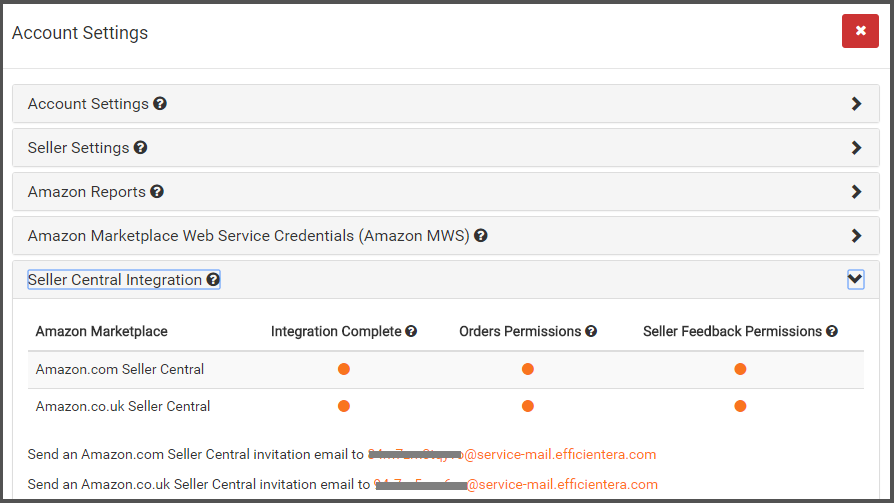
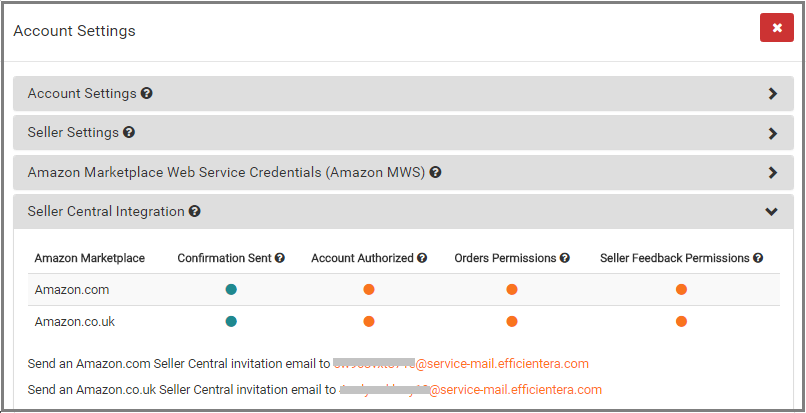
1. Tightening the messaging on our tools  2. Created placeholder page for Flywheels Book  3. Updated MWS/SC instructions with new images

diff --git a/content/templates/index.html b/content/templates/index.html
@@ -34,7 +34,7 @@
         <div class="col-sm-12 col-lg-12 text-center">
             <!--<h2>Efficient Era</h2> -->
             <h1 style="color:darkslategrey;">Power Tools for Amazon Sellers</h1>
-            <h5 style="color:slategrey;">Your One Stop Shop for: Amazon Email Automation  • Buyer Reviewer Matching  •  Review Notifications •  Seller Feedback • VAT Invoice Automation • Bulk Order Notification • Sales Charts</h5>
+            <h5 style="color:slategrey;">Your One Stop Shop for: Buyer Reviewer Matching • Amazon Email Automation • Review Notifications • Seller Feedback • VAT Invoice Automation • Bulk Order Notification • Sales Charts</h5>
             <a href = "https://app.efficientera.com/register/?" target="_blank">
                 <img class="center-block" src="images/freetrial.png" align="center">
             </a>
@@ -55,8 +55,8 @@
 
 
                             <h4>Buyer Reviewer Matching</h4>
-                            <p>Efficient Era's Buyer Reviewer matching tool accurately links reviews to orders and helps you directly contact the buyer. This can be especially helpful if they left a negative review.
-                                What's more, you can keep track of all product reviews through our automated Review Notifications. Our alerts contain direct links to the review page on Amazon as well as to the order details page.
+                            <p>A buyer leaves you a negative, one-star review. How do you contact them to find out what went wrong and if you can make any amends? Efficient Era's Buyer Reviewer matching tool accurately links verified reviews to orders and helps you directly contact buyers.
+                                Our review notification alerts contain direct links to the review page and to the order details page on Amazon.
                             </p>
 
 
@@ -95,8 +95,8 @@
                         <div class="col-xs-10 col-sm-9">
                         <h4>Seller Feedback Alerts & Automation</h4>
                             <p>
-                                With the Seller Feedback tool, you get notified as soon as a buyer leaves you feedback. You also have the ability to customize and automate e-mail responses
-                                for both positive or negative Seller Feedback. What's more, you can visually monitor your seller performance through charts and search for feedback by star rating or by marketplace.
+                                Amazon does not inform you if someone left you Seller Feedback. With this tool, you get notified right away. We identify positive and negative seller feedback and let you
+                                customize an automated email response for both cases. What's more, you can visually monitor your seller performance through charts and search for feedback by star rating or by marketplace.
                              </p>
 
                             <!--<a href="/pages/accounting" class="btn btn-info">Learn More</a>-->
@@ -115,10 +115,9 @@
                         <div class="col-xs-10 col-sm-9">
                             <h4>Sales Charts with Event Annotations</h4>
                             <p>
-                                Efficient Era's Sales Charts help you visualize Amazon sales and inventory data for each of your SKUs. View units moved and
-                                your stock remaining on a timeline, all within a single chart. But there’s more! They also allow you to
-                                annotate your data with custom events, such as price changes, Prime day or a promotion campaign you launched
-                                that you know could have impacted your performance.
+                                Seller Central Business Reports provide overwhelming amounts of data. Efficient Era's Sales Charts help you visually track sales and inventory data for each of your ASINs
+                                on a timeline. In addition, you can mark your sales charts with custom events, such as price or name changes, special campaigns or special days like Cyber Monday.
+                                These annotations give context to sales spikes and dips.
                             </p>
 
 

diff --git a/content/templates/flywheels.html b/content/templates/flywheels.html
@@ -1,0 +1,15 @@
+{% extends "base.html" %}
+{% set HIDE_SIDEBAR = true %}
+
+{% block content %}
+<section id="content" class="body">
+    <div class="row">
+        <div class="col-sm-12 col-lg-12 text-center">
+            <h1 style="color:darkslategrey;">Flywheels and Feedback Loops</h1>
+            <h3 style="color:slategrey;">Online markets such as Amazon have completely changed retailing so that even small companies can use e-commerce platforms to compete globally. But success requires new ways of thinking, outstanding customer service, and unprecedented speed. Bernie Thompson’s small electronics company became one of the first private-label brands to successfully capitalize on Amazon fulfillment, and even Amazon has touted him as a success. Now he shares how you can find similar success. Going well beyond the basics (which are widely available elsewhere), this book is for sophisticated private-label sellers and manufacturers who recognize that there are no tricks or schemes, only winning strategies, best practices, and tools for overcoming the inertia of discoverability to get the sales flywheel moving. Specific tips and advice include where to focus your energy, how to make data actionable, and how to close the feedback loops that drive successful e-commerce.</h3>
+            <p></p>
+            <img class="img img-responsive" src="/images/eBook_Cover.png" align="center" alt="Flywheels and Feedback Loops">
+            </div>
+    </div>
+</section>
+{% endblock %}

diff --git a/pelicanconf.py b/pelicanconf.py
@@ -58,7 +58,7 @@ ARTICLE_URL = 'blog/{date:%Y}/{date:%m}/{slug}.html'
 INDEX_SAVE_AS = 'blog/index.html'
 TEMPLATE_PAGES = {
     'templates/google96a16df7dbeb77e9.html': 'google96a16df7dbeb77e9.html',
-    'templates/test_lead_page.html': 'test_lead_page.html',
+    'templates/flywheels.html': 'flywheels.html',
     'templates/index.html': 'index.html',
     'templates/atlassian-domain-verification.html': 'atlassian-domain-verification.html',
 }

diff --git a/content/blog/registering-mws.md b/content/blog/registering-mws.md
@@ -70,6 +70,8 @@ Next, you need to will need to provide the correct access permissions to Efficie
 
 8. Return to the User Permissions page in Seller Central. You should now see the pending user email with a confirmation code displayed.
 
+    ![Settings](/images/blog/2015/08/scintegration.png)
+
 9. Verify that the code in the email you received is the same as the one displayed on the User Permissions page, then click **Confirm**.
 
 10. In the Efficient Era user, click **Add User Permissions**. 
